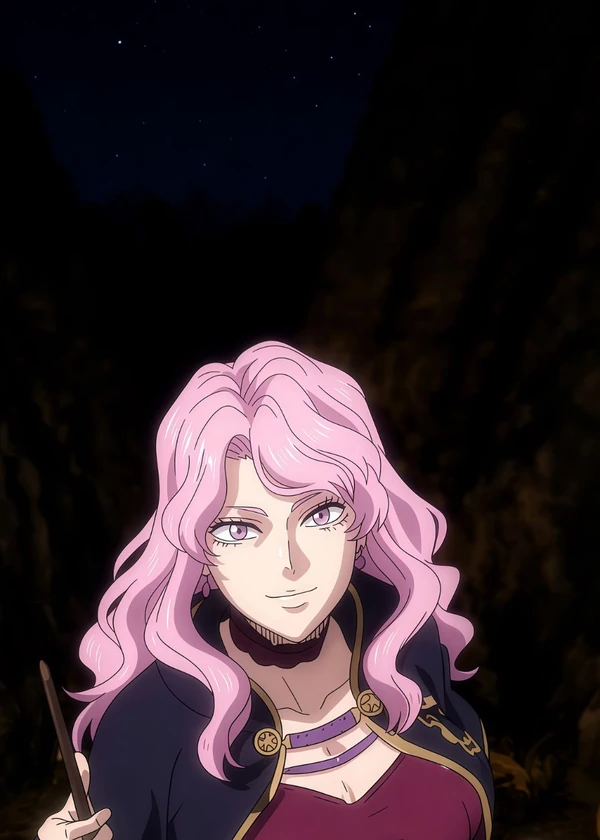
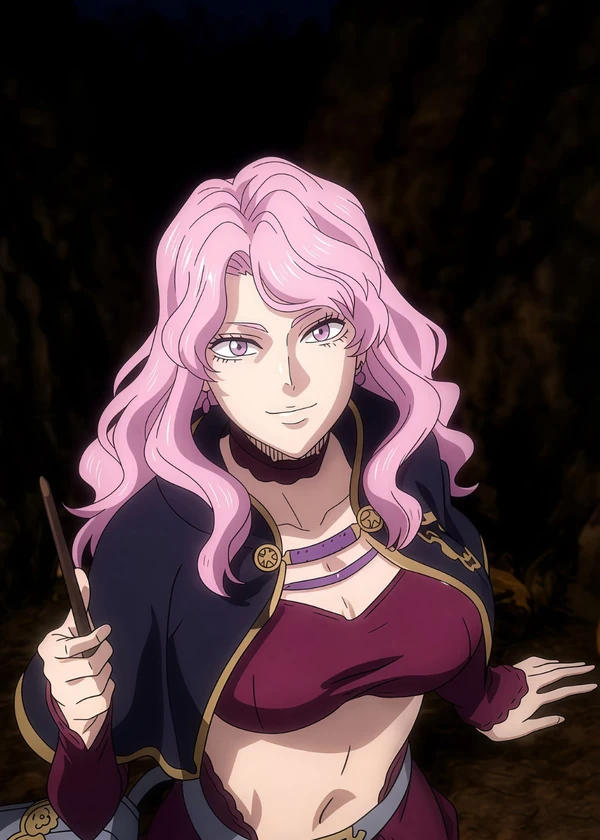
Images v142: recadrage selon le bandeau (Aki, Angel, Vanessa, Sakamoto, Saitama, Natsu)
Claude-Session: https://claude.ai/code/session_01JHx5pPzbBPMDkeK3fPmfwM

diff --git a/index.html b/index.html
@@ -1965,7 +1965,7 @@ let CLIPDIAG='';
 const prot=c=>!!c&&(!!c.scn||c.r==='UR'||c.r==='LR');
 const clueC=c=>!!c&&!c.scn&&RORD[c.r]>=3;
 const RCOL={N:'var(--r-n)',R:'var(--r-r)',SR:'var(--r-sr)',SSR:'var(--r-ssr)',UR:'#A63BFF',LR:'#FFFFFF'};
-const AV='?v=73';const AVO={'mha-all-united-states-of-smash':'?v=67','mha-all-united-states-of-smash~s':'?v=69b','db-son-cell-games':'?v=65','db-son-cell-games~s':'?v=65'};const avOf=k=>AVO[k]||AV;/* version des images (cache) */
+const AV='?v=74';const AVO={'mha-all-united-states-of-smash':'?v=67','mha-all-united-states-of-smash~s':'?v=69b','db-son-cell-games':'?v=65','db-son-cell-games~s':'?v=65'};const avOf=k=>AVO[k]||AV;/* version des images (cache) */
 const APOS={'bc-asta-examen-d-entree':'center 0%'};
 /* si tu possèdes la scène iconique, la carte de base (et son éveil) prend l'image de la scène */
 const artOf=(c,big,nosc)=>{const b=c.base||c.id,e=c.id.replace(/~e$/,''),sc=(!nosc&&!c.scn&&typeof S!=='undefined'&&S.owned&&S.owned[e+'~s']>0&&ART.has(e+'~s'))?e+'~s':null,k=sc||(ART.has(c.id)?c.id:ART.has(e)?e:ART.has(b)?b:null);return k?(big?'images/':'images/s/')+k+'.webp'+avOf(k):null};
